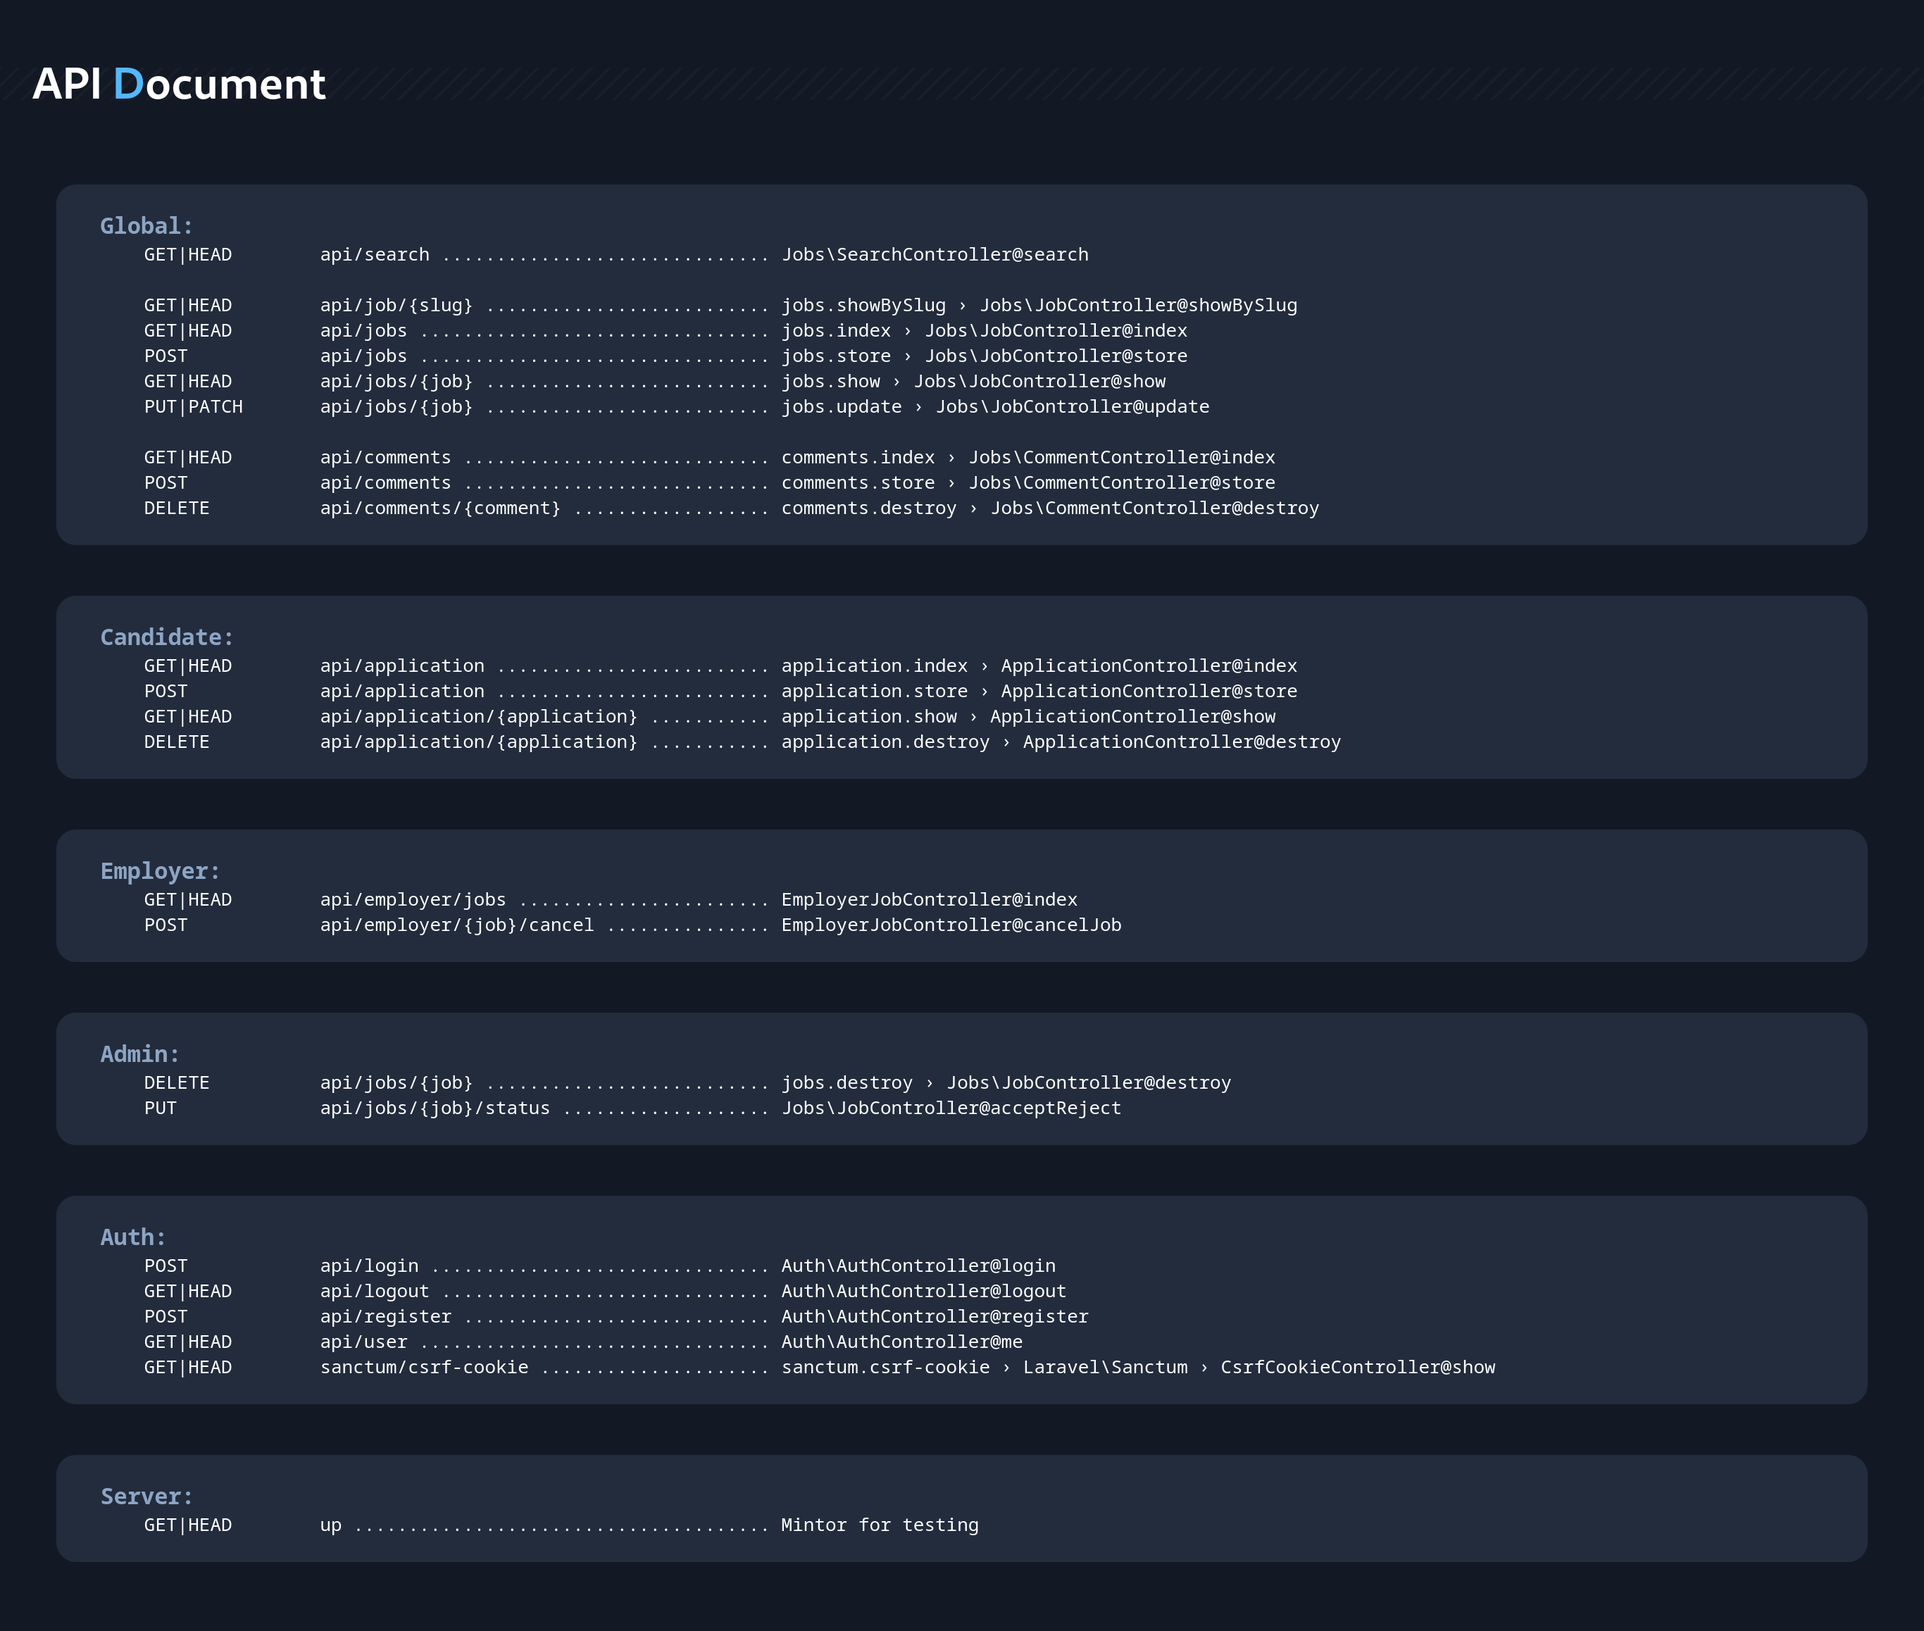
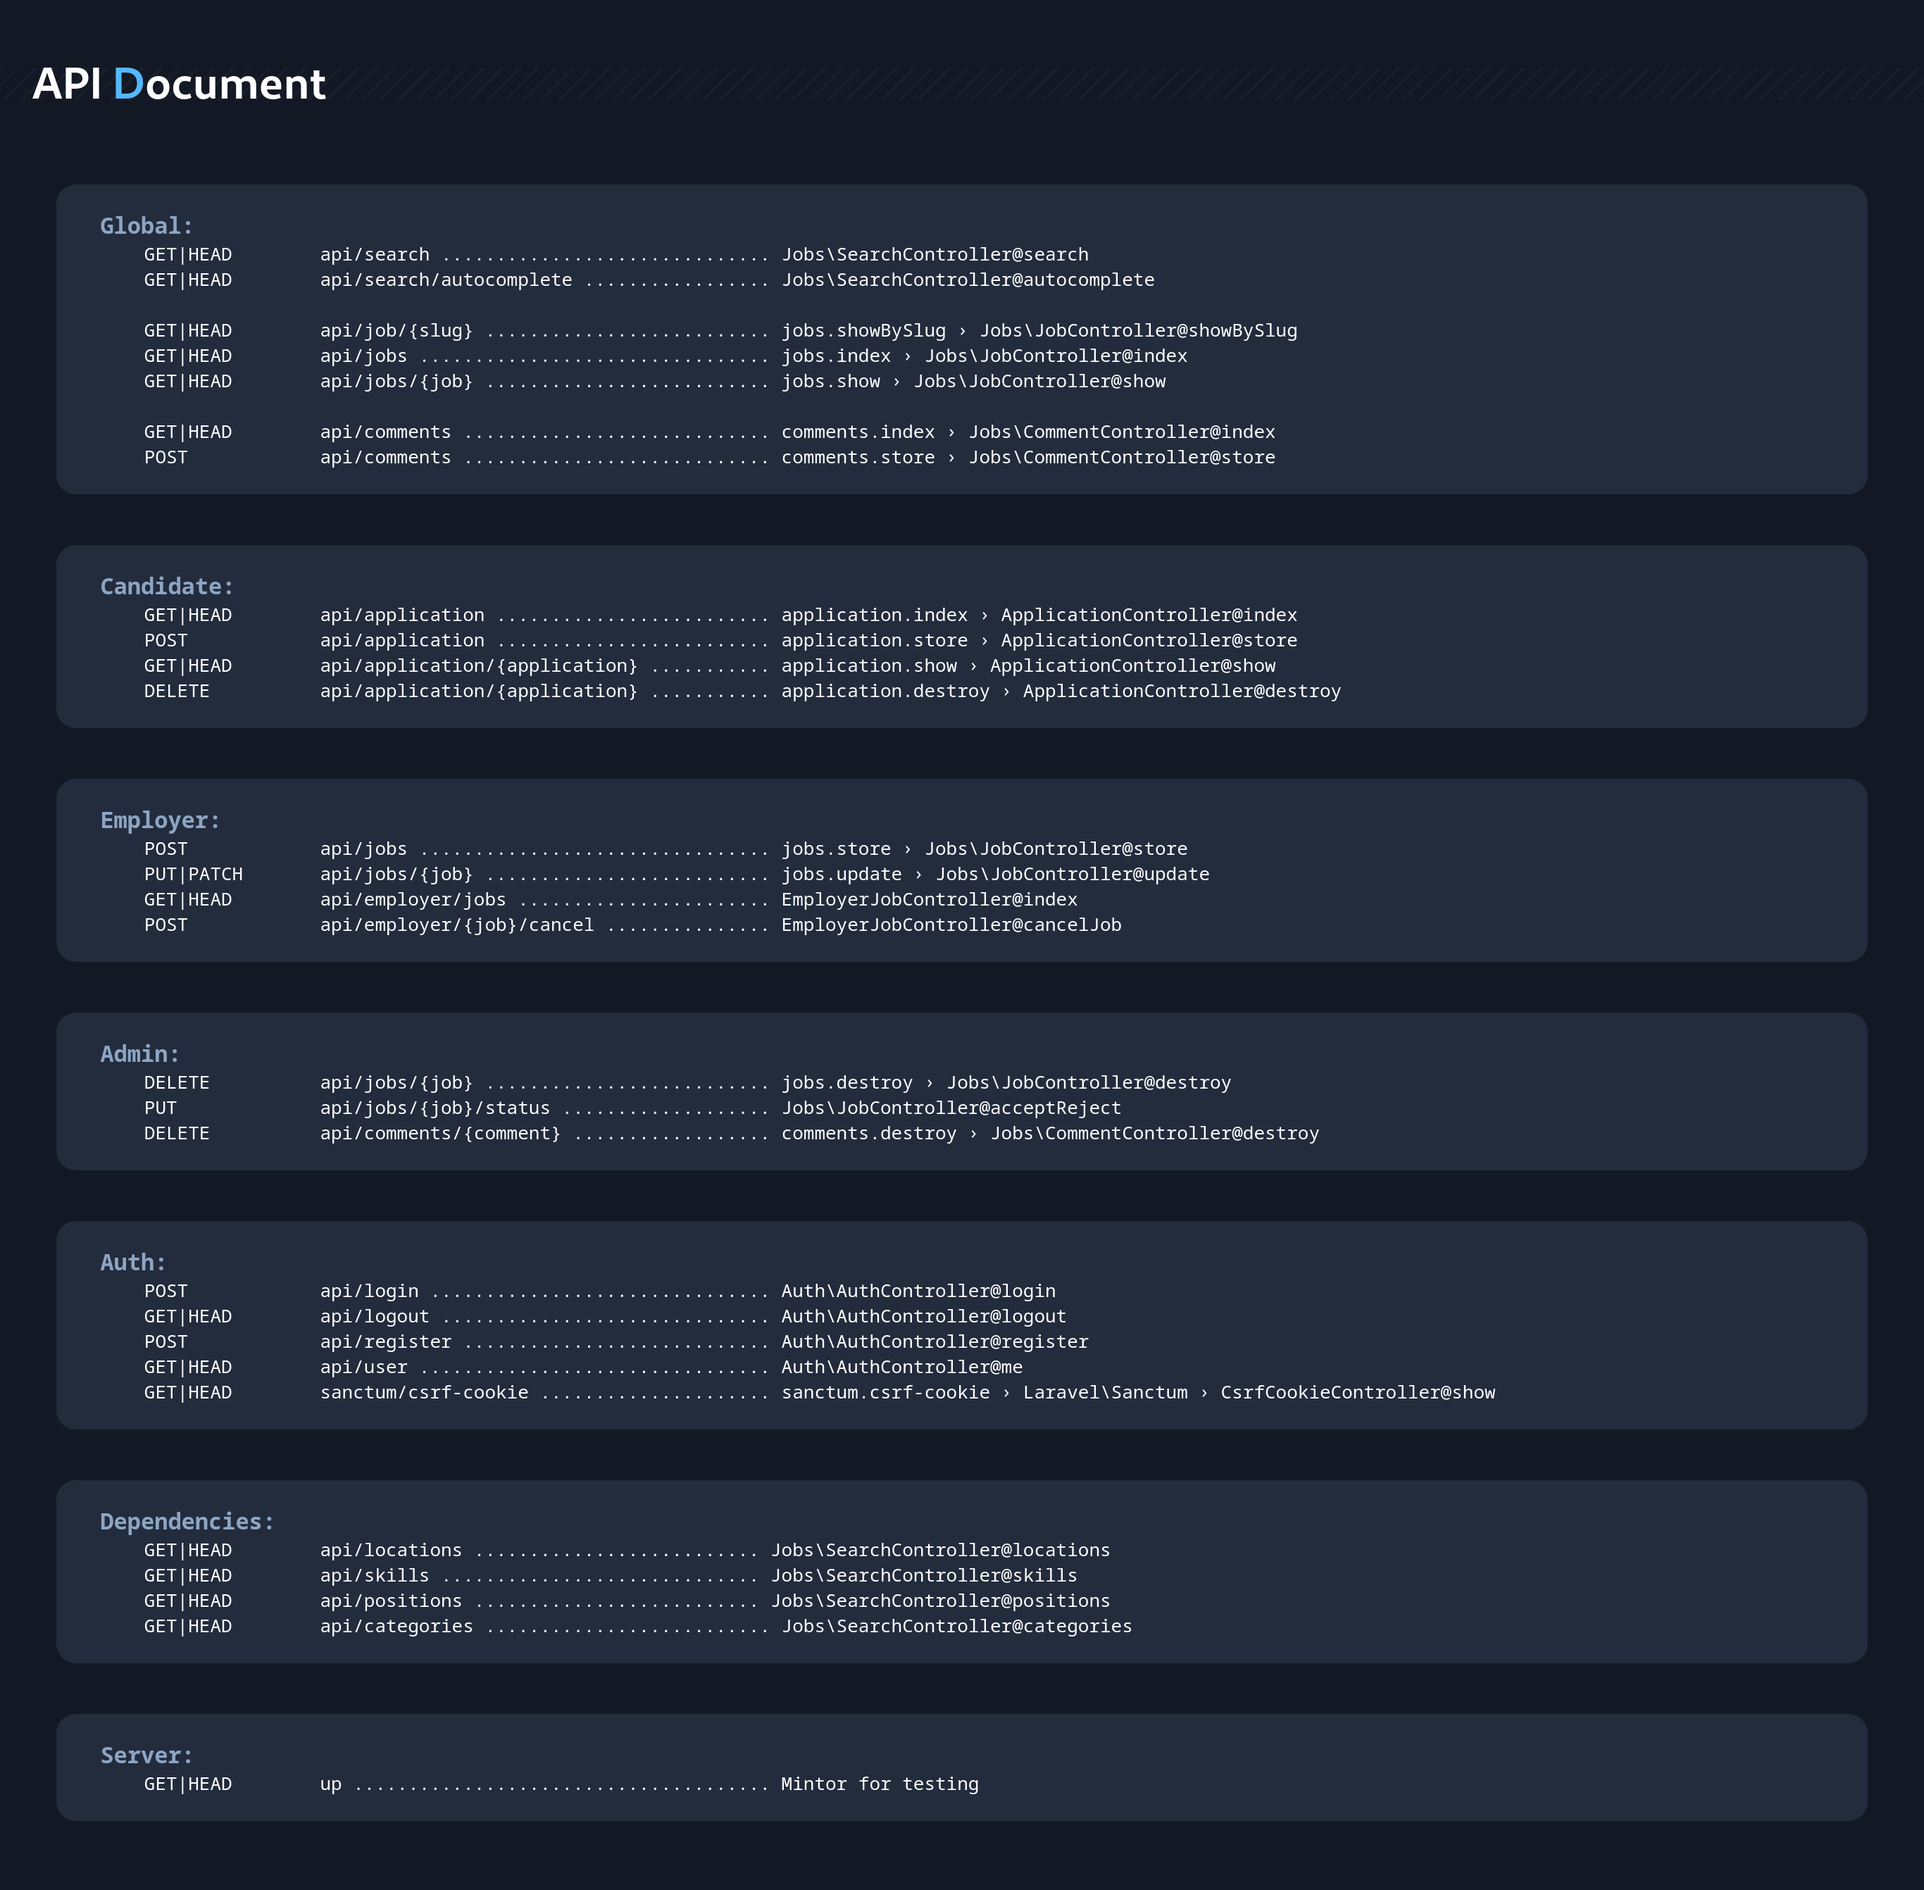
Edit README

diff --git a/resources/views/welcome.blade.php b/resources/views/welcome.blade.php
@@ -99,30 +99,30 @@
     <span>Global:</span>
         GET|HEAD        api/search .............................. Jobs\SearchController@search
         GET|HEAD        api/search/autocomplete ................. Jobs\SearchController@autocomplete
-        
+
         GET|HEAD        api/job/{slug} .......................... jobs.showBySlug › Jobs\JobController@showBySlug
         GET|HEAD        api/jobs ................................ jobs.index › Jobs\JobController@index
         GET|HEAD        api/jobs/{job} .......................... jobs.show › Jobs\JobController@show
-        
+
         GET|HEAD        api/comments ............................ comments.index › Jobs\CommentController@index
         POST            api/comments ............................ comments.store › Jobs\CommentController@store
     </p>
     <p class="section">
-        <span>Candidate:</span>
+    <span>Candidate:</span>
         GET|HEAD        api/application ......................... application.index › ApplicationController@index
         POST            api/application ......................... application.store › ApplicationController@store
         GET|HEAD        api/application/{application} ........... application.show › ApplicationController@show
         DELETE          api/application/{application} ........... application.destroy › ApplicationController@destroy
     </p>
     <p class="section">
-        <span>Employer:</span>
+    <span>Employer:</span>
         POST            api/jobs ................................ jobs.store › Jobs\JobController@store
         PUT|PATCH       api/jobs/{job} .......................... jobs.update › Jobs\JobController@update
         GET|HEAD        api/employer/jobs ....................... EmployerJobController@index
         POST            api/employer/{job}/cancel ............... EmployerJobController@cancelJob
     </p>
     <p class="section">
-        <span>Admin:</span>
+    <span>Admin:</span>
         DELETE          api/jobs/{job} .......................... jobs.destroy › Jobs\JobController@destroy
         PUT             api/jobs/{job}/status ................... Jobs\JobController@acceptReject
         DELETE          api/comments/{comment} .................. comments.destroy › Jobs\CommentController@destroy
@@ -134,6 +134,13 @@
         POST            api/register ............................ Auth\AuthController@register
         GET|HEAD        api/user ................................ Auth\AuthController@me
         GET|HEAD        sanctum/csrf-cookie ..................... sanctum.csrf-cookie › Laravel\Sanctum › CsrfCookieController@show
+    </p>
+    <p class="section">
+    <span>Dependencies:</span>
+        GET|HEAD        api/locations .......................... Jobs\SearchController@locations
+        GET|HEAD        api/skills ............................. Jobs\SearchController@skills
+        GET|HEAD        api/positions .......................... Jobs\SearchController@positions
+        GET|HEAD        api/categories .......................... Jobs\SearchController@categories
     </p>
     <p class="section">
     <span>Server:</span>

diff --git a/app/Http/Controllers/Jobs/JobController.php b/app/Http/Controllers/Jobs/JobController.php
@@ -24,21 +24,6 @@ class JobController extends Controller
      *
      * @return \Illuminate\Database\Eloquent\Collection|Job[]
      */
-    // public function index()
-    // {
-    //     if (auth()->user()->isAdmin()) {
-    //         return response()->json(JobResource::collection(Job::all()), 200);
-    //     }
-
-    //     $jobs = Job::where('status', 'open')->get();
-    //     if ($jobs->isEmpty()) {
-    //         return response()->json([
-    //             'message' => 'No open jobs found'
-    //         ], 404);
-    //     }
-    //     return response()->json(JobResource::collection($jobs), 200);;
-    // }
-
     public function index(Request $request)
     {
         $jobs = [];

diff --git a/README.md b/README.md
@@ -8,11 +8,14 @@
 
 This project was generated with [Laravel](https://laravel.com/docs) version 11.
 
+- **[FrontEnd](https://github.com/TarekHesham/Laravel_Project)**
+
 ## API Document
 
 <div align="center">
 
 ![document](./Resources/document.png)
+![documentHover](./Resources/documentHover.png)
 
 </div>
 
